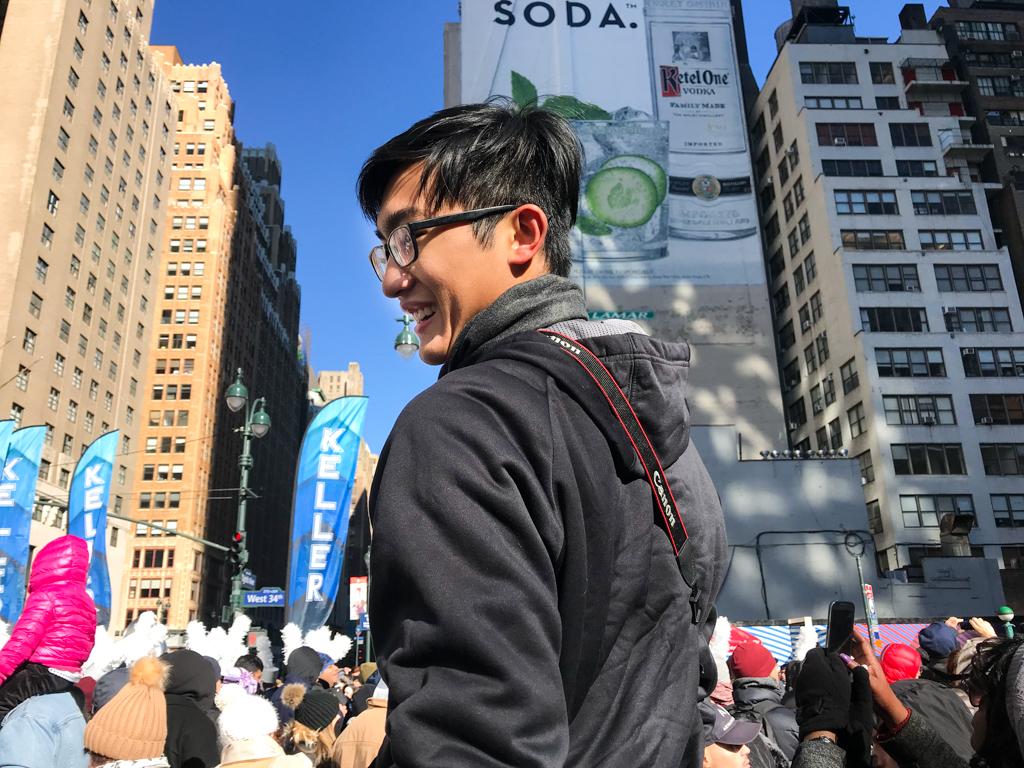
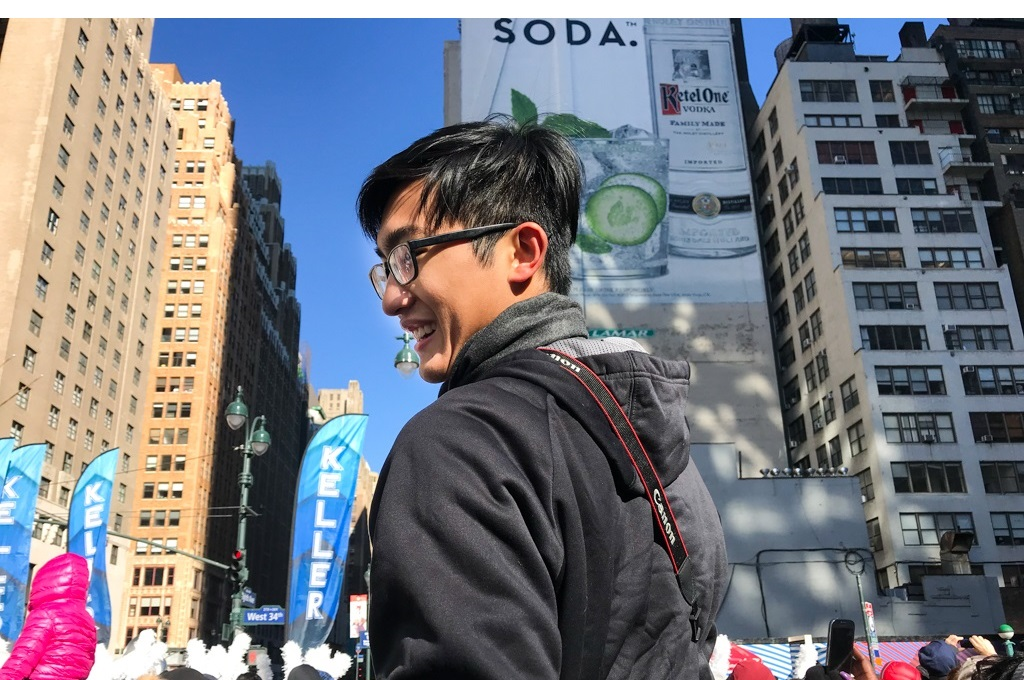
Update photo and bio

diff --git a/src/sections/Home/index.js b/src/sections/Home/index.js
@@ -4,77 +4,92 @@ import AOS from 'aos';
 import HomeImage from '../../share/images/about.jpg';
 
 const Home = () => {
-	useEffect(() => {
-		AOS.init();
-	}, []);
-	return (
-		<div id="home">
-			<div class="min-vh-100 d-flex align-items-center">
-				<div class="container h-auto" id="header">
-					<div class="row">
-						<div class="col-lg-5 col-md-4 col-sm-3">
-							<img
-								className="float-right profile-pic"
-								src={HomeImage}
-								alt="Profile pic"
-								data-aos="fade-up"
-								data-aos-delay="000"
-								data-aos-duration="800"
-								data-aos-anchor-placement="top-center"
-							/>
-						</div>
-						<div class="col-lg-5 col-md-6 col-sm-8">
-							<div className="mb-4">
-								<h1
-									className="text-nowrap name"
-									data-aos="fade-up"
-									data-aos-delay="200"
-									data-aos-duration="800"
-									data-aos-anchor-placement="top-center"
-								>
-									Gary Nguyen
-								</h1>
-							</div>
-							<div
-								className="intro"
-								data-aos="fade-up"
-								data-aos-delay="300"
-								data-aos-duration="800"
-								data-aos-anchor-placement="top-center"
-							>
-								<div className="mb-3 pt-3">
-									Hey! I'm Gary. Thanks for visiting!{' '}
-									<span role="img" aria-label="emoji">
-										👋
-									</span>
-								</div>
-								<div className="">
-									Born in southern Mississippi, I'm currently studying CS &
-									Architecture at MIT. I love front-end development and UI/UX,
-									I'm learning to express myself through design, and my favorite
-									newsletters are{' '}
-									<a
-										className="newsletter"
-										href="https://www.technologyreview.com/"
-									>
-										The Download
-									</a>{' '}
-									and{' '}
-									<a
-										className="newsletter"
-										href="https://www.technologyreview.com/"
-									>
-										Morning Brew
-									</a>
-									!
-								</div>
-							</div>
-						</div>
-					</div>
-				</div>
-			</div>
-		</div>
-	);
+  useEffect(() => {
+    AOS.init();
+  }, []);
+  return (
+    <div id="home">
+      <div class="min-vh-100 d-flex align-items-center">
+        <div class="container h-auto" id="header">
+          <div class="row">
+            <div class="col-lg-5 col-md-4 col-sm-3">
+              <img
+                className="float-right profile-pic"
+                src={HomeImage}
+                alt="Profile pic"
+                data-aos="fade-up"
+                data-aos-delay="000"
+                data-aos-duration="800"
+                data-aos-anchor-placement="top-center"
+              />
+            </div>
+            <div class="col-lg-7 col-md-6 col-sm-8">
+              <div className="mb-3">
+                <h1
+                  className="text-nowrap name"
+                  data-aos="fade-up"
+                  data-aos-delay="200"
+                  data-aos-duration="800"
+                  data-aos-anchor-placement="top-center"
+                >
+                  Gary Nguyen
+                </h1>
+              </div>
+              <div>
+                <h3
+                  className="text-nowrap title mb-4"
+                  data-aos="fade-up"
+                  data-aos-delay="200"
+                  data-aos-duration="800"
+                  data-aos-anchor-placement="top-center"
+                >
+                  Systems Developer @ InterSystems
+                </h3>
+              </div>
+              <div
+                className="intro"
+                data-aos="fade-up"
+                data-aos-delay="300"
+                data-aos-duration="800"
+                data-aos-anchor-placement="top-center"
+              >
+                <div className="mb-3 pt-0">
+                  Welcome! Thanks for stopping by!{' '}
+                  <span role="img" aria-label="emoji">
+                    👋
+                  </span>
+                </div>
+                <div className="">
+                  Codecademy was how I got my start back in 2012. W3 and YouTube
+                  gave me my taste of coding - and the bugs shortly after. Fast
+                  forward to today, I've had opportunities to contribute in
+                  development for a <a href="">health data leader</a>, a web3
+                  pioneer , an aerospace leader, an education start-up, and a
+                  research lab.
+                </div>
+                <div>
+                  <a
+                    className="newsletter"
+                    href="https://www.technologyreview.com/"
+                  >
+                    The Download
+                  </a>{' '}
+                  and{' '}
+                  <a
+                    className="newsletter"
+                    href="https://www.technologyreview.com/"
+                  >
+                    Morning Brew
+                  </a>
+                  !
+                </div>
+              </div>
+            </div>
+          </div>
+        </div>
+      </div>
+    </div>
+  );
 };
 
 export default Home;

diff --git a/src/App.js b/src/App.js
@@ -9,8 +9,8 @@ import './App.css';
 
 import Github from './share/images/social-media-icons/github.svg';
 import LinkedIn from './share/images/social-media-icons/linkedin.svg';
-import Twitter from './share/images/social-media-icons/twitter.svg';
-import Instagram from './share/images/social-media-icons/instagram.svg';
+// import Twitter from './share/images/social-media-icons/twitter.svg';
+// import Instagram from './share/images/social-media-icons/instagram.svg';
 
 const App = () => {
   return (
@@ -27,9 +27,9 @@ const App = () => {
             <a id="photographyNav" class="projectsNav" href="#projects">
               Projects
             </a>
-            {/* <a id="contactNav" class="designNav" href="#design">
-							Design
-						</a> */}
+            <a id="contactNav" class="designNav" href="#design">
+              Design
+            </a>
           </div>
         </div>
         <div id="menu" class="navsign my-auto">
@@ -48,7 +48,7 @@ const App = () => {
       <Home />
       <Experiences />
       <Projects />
-      {/* <Design /> */}
+      <Design />
       <div
         className="social-container"
         data-aos="fade-up"
@@ -67,7 +67,7 @@ const App = () => {
                 <img src={Github} alt="Github" />
               </a>
             </li>
-            <li className="social-item">
+            <li className="social-item last-social-item">
               <a
                 className="social-link"
                 target="_blank"
@@ -77,7 +77,7 @@ const App = () => {
                 <img src={LinkedIn} alt="LinkedIn" />
               </a>
             </li>
-            <li className="social-item">
+            {/* <li className="social-item">
               <a
                 className="social-link"
                 target="_blank"
@@ -100,7 +100,7 @@ const App = () => {
                   alt="Instagram"
                 />
               </a>
-            </li>
+            </li> */}
           </ul>
         </div>
       </div>
@@ -111,8 +111,8 @@ const App = () => {
         data-aos-duration="800"
       >
         <div className="email-wrapper">
-          <a className="email-link" href="mailto:nguyeng@mit.edu">
-            nguyeng@mit.edu
+          <a className="email-link" href="mailto:garynguyen2018@gmail.com">
+            garynguyen2018@gmail.com
           </a>
         </div>
       </div>

diff --git a/src/App.css b/src/App.css
@@ -537,12 +537,18 @@ a:hover {
 	font-weight: 500;
 }
 
+.title {
+	font-size: 1.5rem;
+	letter-spacing: 0.1rem;
+	font-weight: 500;
+}
+
 .profile-pic {
-	height: 20rem;
+	height: 25rem;
 }
 
 .intro {
-	font-size: 1.25rem;
+	font-size: 1.15rem;
 }
 
 @media (max-width: 768px) {
